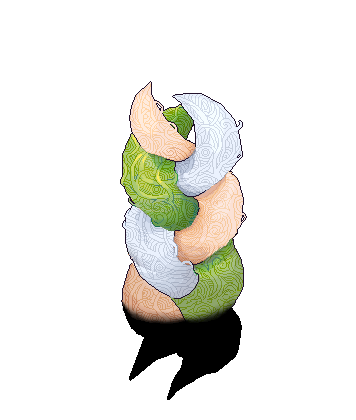
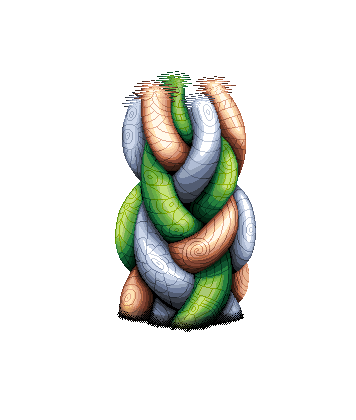
Update graphics for helix exterior.

Changed region(s): [[0.309, 0.1548, 0.7416, 0.9595]]

diff --git a/app/content/objects/decoration.ts b/app/content/objects/decoration.ts
@@ -1050,9 +1050,9 @@ const bigDarkDome: DecorationType = {
 };
 
 
-const [helixBaseFrame] = createAnimation('gfx/objects/helixBaseCombined.png',
-    {w: 356, h: 325, content: {x: 120, y: 273, w: 114, h: 46}}, {}
-).frames;
+const helixBaseFrame = requireFrame('gfx/objects/helixBaseCombined.png',
+    {x: 115, y: 71, w: 141, h: 261, content: {x: 5, y: 205, w: 125, h: 46}}
+);
 const helixBase: DecorationType = {
     render(context: CanvasRenderingContext2D, state: GameState, decoration: Decoration) {
         drawFrameContentAt(context, helixBaseFrame, decoration);
